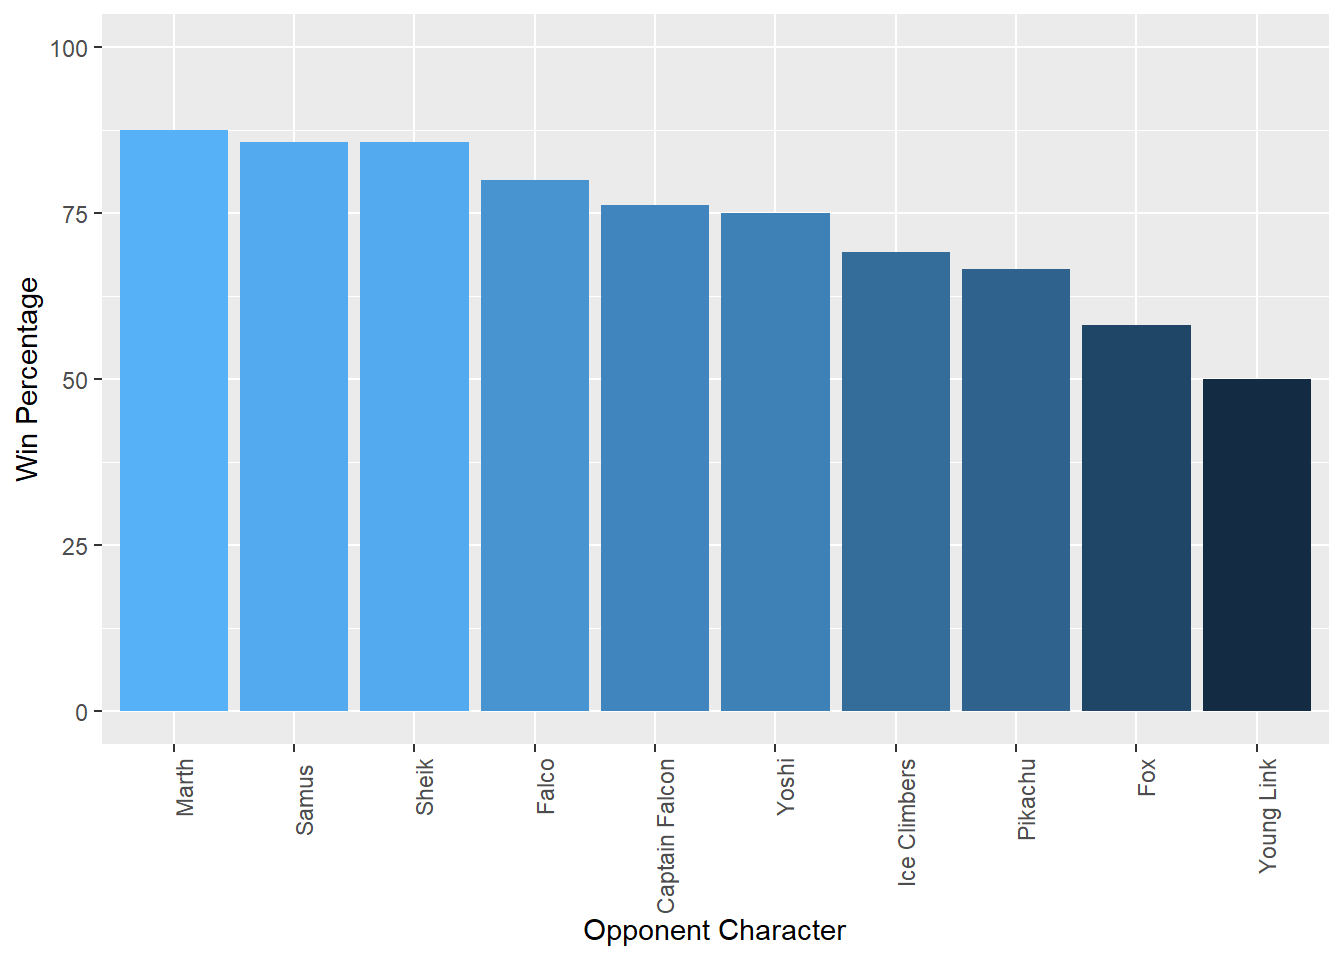
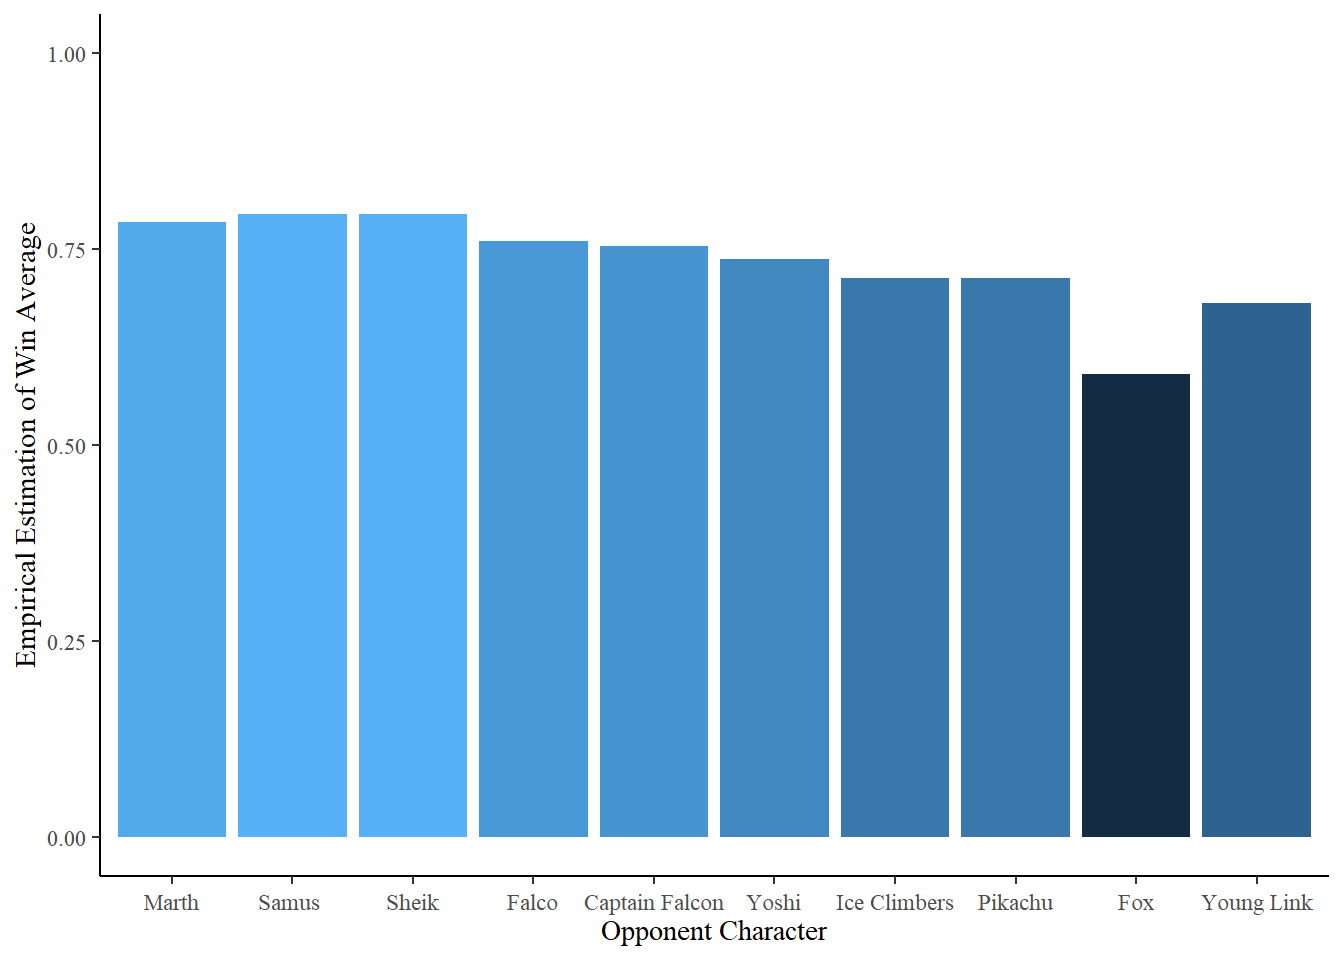
First draft

diff --git a/public/hbox-bayes/index.html b/public/hbox-bayes/index.html
@@ -179,7 +179,7 @@
   
   
   &nbsp;|&nbsp;
-  <i class="fa fa-clock-o"></i> 14 minutes (2937 words)
+  <i class="fa fa-clock-o"></i> 15 minutes (2993 words)
   
   
 </span>
@@ -238,7 +238,7 @@
 <p>Here is where the essential question of this blog post comes in.</p>
 <p>Does Hungrybox win more versus Fox than he does versus Young Link? On face value, the answers seems obvious. Hungrybox wins 58.23% of his matches versus Fox and 50.00% of his matches versus Young Link, so clearly he is better at the Fox matchup, right?</p>
 <p>In order to make that conclusion, one would have to disregard the sample size or the amount of evidence behind each matchup. Up until 2017/11/07, Hungrybox had won 2/4 matches versus Young Link, whereas he had won 145/249 matches versus Fox. Knowing this, can we confidently say that Hungrybox’s win percentage versus Young Link is truly lower than his win percentage versus Fox?</p>
-<p>Thankfully, there is a statistical technique called <strong>empirical Bayes estimation</strong> that will allow us to predict the proportion of wins in each of Hungrybox’s character matchups. The specific goal of this analysis will be to gain a better estimate of Hungrybox’s win percentage versus Young Link and Fox, given the data available. This analysis will allow us to make an informed approximation of which is the best character to use against Hungrybox in high level play.</p>
+<p>Thankfully, there is a statistical technique called <strong>empirical Bayes estimation</strong> that will allow us to predict the proportion of wins in each of Hungrybox’s character matchups. The specific goal of this analysis will be to gain a better estimate of Hungrybox’s win percentage versus Young Link, given the data in Tafo’s tweet. This analysis will allow us to make an informed approximation of which is the best character to use against Hungrybox in high level play.</p>
 <hr />
 <blockquote>
 <p>Before we dive in, I would like to credit <a href="http://varianceexplained.org/">David Robinson</a> for his excellent series of posts on Bayesian data analysis. Learning about empirical Bayes estimation through his posts inspired me to use these methods on data that were interesting to me.</p>
@@ -333,7 +333,7 @@ Hbox.est</code></pre>
 <p>Again, our distribution and number of observations leaves something to be desired. Nonetheless, we will use this distribution to inform our approximations of Hungrybox’s individual character matchups.</p>
 <p>To do so, we add alpha and the number of wins in each matchup then divide that by the sum of the total number of games, alpha, and beta.</p>
 <p><span class="math display">\[
-\frac{Number of Wins + \alpha}{Total Number of Games + \alpha + \beta}
+\frac{Number of Wins + \alpha_0}{Total Number of Games + \alpha_0 + \beta_0}
 \]</span></p>
 <pre class="r"><code>#How does empirical Bayes estimation change the matchup averages?
 Hbox.eb &lt;- Hbox %&gt;%
@@ -387,46 +387,51 @@ Hbox.eb %&gt;%
 <div id="bonus-maximum-likelihood-estimation" class="section level3">
 <h3>Bonus: Maximum Likelihood Estimation</h3>
 <p>In addition to estimating the alpha and beta parameters through the method of moments, we can also use maximum likelihood estimation. Here, I use the <code>fitdistr()</code> function from the <code>MASS</code> package to do that with one line of code.</p>
-<pre class="r"><code>#Alternatively, we can use fitdistr to conduct a Maximum-Likelihood Estimation of alpha and beta
-Hbox.est2 &lt;- fitdistr(Hbox$WinAverage,dbeta,list(shape1=1,shape2=1), lower = c(0,0))
+<pre class="r"><code>Hbox.est2 &lt;- fitdistr(Hbox$WinAverage,dbeta,list(shape1=1,shape2=1), lower = c(0,0))
 
 Hbox.est2</code></pre>
 <pre><code>##     shape1      shape2  
 ##   10.403528    3.780885 
 ##  ( 4.665568) ( 1.625258)</code></pre>
 <p>Our estimates of alpha and beta have not changed substantially, but let’s see how this method may have differed in terms of our conclusions.</p>
-<pre class="r"><code>#How did our empirical Bayes change the matchup averages?
+<pre class="r"><code>#Empirical Bayes
 Hbox.eb2 &lt;- Hbox %&gt;%
   mutate(eb_estimate2 = (Wins + Hbox.est2$estimate[1]) / (TotalGames + Hbox.est2$estimate[1] + Hbox.est2$estimate[2]))
 
-#Again, what if we had no evidence at all? What would we predict Hbox&#39;s win average across all matchups to be?
-sprintf(&quot;%.3f&quot;, Hbox.est2$estimate[1] / (Hbox.est2$estimate[1] + Hbox.est2$estimate[2]))</code></pre>
+Hbox.eb2 %&gt;%
+  dplyr::select(-WinPercent) %&gt;%
+  arrange(desc(abs(eb_estimate2 - WinAverage)))</code></pre>
+<pre><code>##    OpponentCharacter Wins Losses TotalGames WinAverage eb_estimate2
+## 1         Young Link    2      2          4  0.5000000    0.6820967
+## 2              Marth    7      1          8  0.8750000    0.7844935
+## 3             Samus    12      2         14  0.8571429    0.7948907
+## 4              Sheik   12      2         14  0.8571429    0.7948907
+## 5            Pikachu    4      2          6  0.6666667    0.7135966
+## 6              Falco    8      2         10  0.8000000    0.7609665
+## 7       Ice Climbers    9      4         13  0.6923077    0.7137740
+## 8              Yoshi    3      1          4  0.7500000    0.7370889
+## 9                Fox  145    104        249  0.5823293    0.5904739
+## 10    Captain Falcon   32     10         42  0.7619048    0.7547205</code></pre>
+<p>Again, what if we had no evidence at all for a matchup? What would we predict Hbox’s win average to be in this situation?</p>
+<pre class="r"><code>sprintf(&quot;%.3f&quot;, Hbox.est2$estimate[1] / (Hbox.est2$estimate[1] + Hbox.est2$estimate[2]))</code></pre>
 <pre><code>## [1] &quot;0.733&quot;</code></pre>
-<pre class="r"><code>#Plot
-ggplot(data = Hbox.eb2, aes(x = Hbox.eb2$OpponentCharacter, y = Hbox.eb2$eb_estimate, fill = Hbox.eb2$eb_estimate)) + 
-  geom_bar(stat = &quot;identity&quot;, show.legend = FALSE) + 
-  theme(axis.text.x = element_text(angle = 90, hjust = 1)) + 
-  ylab(&quot;Empirical Estimation of Win Average&quot;) + 
-  xlab(&quot;Opponent Character&quot;) + 
-  scale_x_discrete(limits = c(&quot;Marth&quot;, &quot;Samus &quot;, &quot;Sheik&quot;, &quot;Falco&quot;, &quot;Captain Falcon&quot;, &quot;Yoshi&quot;, &quot;Ice Climbers&quot;, &quot;Pikachu&quot;, &quot;Fox&quot;, &quot;Young Link&quot;)) + 
-  coord_cartesian(ylim = c(0.0, 1.0))</code></pre>
-<p><img src="/post/2018-08-31-empirical-bayes-estimation-of-hungrybox-s-2017-character-matchups_files/figure-html/unnamed-chunk-2-1.png" width="672" /></p>
-<p>Not very much! It’s nice that this method also reflects the same conclusions as our original analysis.</p>
+<p>And our estimates of win averages?</p>
+<p><img src="/post/2018-08-31-empirical-bayes-estimation-of-hungrybox-s-2017-character-matchups_files/figure-html/unnamed-chunk-4-1.png" width="672" /></p>
+<p>Our conclusions do not change very much! The estimates of Hungrybox’s win averages in matchups with or without data are very alike to our previous findings. It’s nice that this method also reflects the same conclusions as our original analysis.</p>
 <hr />
 </div>
 <div id="conclusions" class="section level3">
 <h3>Conclusions</h3>
 <p>Well, what did we learn? First we learned that sample size and the number of observations is important. We should not make bold conclusions on percentages or proportions that have a small number of underlying observations. That principle should also be applied to this analysis. Due to the nature of high level competitive Melee, only a few matchups made up the win average distribution. This affected the resolution of our estimates of the alpha, beta, and resulting estimates for each of Hungrybox’s matchups.</p>
-<p>With these limitations in mind, this analysis suggests that Young Link is not an optimal character choice versus Hungrybox. In unsurprising fashion, Fox remains Hungrybox’s most difficult matchup, a sentiment that has been widely echoed for a long time in the Melee community. It is an almost natural assumption that the best character in the game would be the hardest to play against, even if you’re #1. Despite the somewhat underwhelming conclusion, the important lesson is that extreme or simplistic solution of choosing Young Link should not be applied to complex</p>
-<p>Does that mean that people should only play Fox to beat Hungrybox’s Jigglypuff?</p>
-<p>Recent tournament results would suggest that shouldn’t be the case.</p>
+<p>With these limitations in mind, this analysis suggests that Young Link is not an optimal character choice versus Hungrybox. In unsurprising fashion, Fox remains Hungrybox’s most difficult matchup, a sentiment believed by Hungrybox himself and fans. It is an almost natural assumption that the best character in the game would be the hardest to play against, even if you’re #1. Despite the somewhat underwhelming conclusion, the important lesson is that extreme or simplistic solution of choosing Young Link (or any other character) should not be applied to complex problem of defeating the best player in the world.</p>
+<p>Does this mean that people should only play Fox to beat Hungrybox’s Jigglypuff?</p>
+<p>Recent tournament results would suggest that this is not necessary.</p>
 <div class="figure">
 <img src="/img/SmashggShine2018.png" alt="Shine 2018 Top 8 Bracket | source: smash.gg" />
 <p class="caption">Shine 2018 Top 8 Bracket | source: smash.gg</p>
 </div>
-<p>Zain’s meteoric rise through the high</p>
 <p>Zain’s astonishing rise through the Melee rankings led him to beat Hungrybox in two best-of-5 tournament matches at Shine 2018. Zain won a major tournament by beating Hungrybox in a decisive <a href="https://youtu.be/BGifpkfcvvg">3-1 Grand Finals set</a>. That feat is compounded by the fact that Zain beat Hungrybox using Marth, a character that historically performs poorly versus Hungrybox’s Jigglypuff. In fact, the last Marth player to beat Hungrybox was <a href="https://youtu.be/tDxvY_MVctI">PewPewU in 2015</a>. So, character matchups and their estimates are not everything and that’s exactly why competetitive Melee can be so exciting as a spectator.</p>
-<p>I am very glad to make my first post on my blog, especially since I have been sitting on this analysis since Tafo posted the stats in the tweet. Taking an analytical stance on one of the many nuances of Melee will always be a pleasure.</p>
+<p>I am very glad to make my first post on my blog, especially since I have been sitting on this analysis since Tafo posted the data on Twitter. Taking an analytical stance on one of the many nuances of Melee will always be a pleasure. Thanks again to David Robinson for inspiring this post.</p>
 <p>If you have any questions or concerns about this blog post, feel free to message me on Twitter or leave a Disqus comment. If you’re interested in watching competitive Melee, watch the documentary “The Smash Brothers” (linked above), search through competitive Melee VODs on YouTube, or watch livestreams of tournaments on Twitch. You can use <a href="http://whensmelee.com/">“When’s Melee?”</a> to find out when those tournaments are scheduled.</p>
 </div>
 </div>

diff --git a/content/post/2018-08-31-empirical-bayes-estimation-of-hungrybox-s-2017-character-matchups.html b/content/post/2018-08-31-empirical-bayes-estimation-of-hungrybox-s-2017-character-matchups.html
@@ -51,7 +51,7 @@ subtitle: "Empirical Bayes Estimation of Hungrybox's 2017 Character Matchup Win 
 <p>Here is where the essential question of this blog post comes in.</p>
 <p>Does Hungrybox win more versus Fox than he does versus Young Link? On face value, the answers seems obvious. Hungrybox wins 58.23% of his matches versus Fox and 50.00% of his matches versus Young Link, so clearly he is better at the Fox matchup, right?</p>
 <p>In order to make that conclusion, one would have to disregard the sample size or the amount of evidence behind each matchup. Up until 2017/11/07, Hungrybox had won 2/4 matches versus Young Link, whereas he had won 145/249 matches versus Fox. Knowing this, can we confidently say that Hungrybox’s win percentage versus Young Link is truly lower than his win percentage versus Fox?</p>
-<p>Thankfully, there is a statistical technique called <strong>empirical Bayes estimation</strong> that will allow us to predict the proportion of wins in each of Hungrybox’s character matchups. The specific goal of this analysis will be to gain a better estimate of Hungrybox’s win percentage versus Young Link and Fox, given the data available. This analysis will allow us to make an informed approximation of which is the best character to use against Hungrybox in high level play.</p>
+<p>Thankfully, there is a statistical technique called <strong>empirical Bayes estimation</strong> that will allow us to predict the proportion of wins in each of Hungrybox’s character matchups. The specific goal of this analysis will be to gain a better estimate of Hungrybox’s win percentage versus Young Link, given the data in Tafo’s tweet. This analysis will allow us to make an informed approximation of which is the best character to use against Hungrybox in high level play.</p>
 <hr />
 <blockquote>
 <p>Before we dive in, I would like to credit <a href="http://varianceexplained.org/">David Robinson</a> for his excellent series of posts on Bayesian data analysis. Learning about empirical Bayes estimation through his posts inspired me to use these methods on data that were interesting to me.</p>
@@ -146,7 +146,7 @@ Hbox.est</code></pre>
 <p>Again, our distribution and number of observations leaves something to be desired. Nonetheless, we will use this distribution to inform our approximations of Hungrybox’s individual character matchups.</p>
 <p>To do so, we add alpha and the number of wins in each matchup then divide that by the sum of the total number of games, alpha, and beta.</p>
 <p><span class="math display">\[
-\frac{Number of Wins + \alpha}{Total Number of Games + \alpha + \beta}
+\frac{Number of Wins + \alpha_0}{Total Number of Games + \alpha_0 + \beta_0}
 \]</span></p>
 <pre class="r"><code>#How does empirical Bayes estimation change the matchup averages?
 Hbox.eb &lt;- Hbox %&gt;%
@@ -200,46 +200,51 @@ Hbox.eb %&gt;%
 <div id="bonus-maximum-likelihood-estimation" class="section level3">
 <h3>Bonus: Maximum Likelihood Estimation</h3>
 <p>In addition to estimating the alpha and beta parameters through the method of moments, we can also use maximum likelihood estimation. Here, I use the <code>fitdistr()</code> function from the <code>MASS</code> package to do that with one line of code.</p>
-<pre class="r"><code>#Alternatively, we can use fitdistr to conduct a Maximum-Likelihood Estimation of alpha and beta
-Hbox.est2 &lt;- fitdistr(Hbox$WinAverage,dbeta,list(shape1=1,shape2=1), lower = c(0,0))
+<pre class="r"><code>Hbox.est2 &lt;- fitdistr(Hbox$WinAverage,dbeta,list(shape1=1,shape2=1), lower = c(0,0))
 
 Hbox.est2</code></pre>
 <pre><code>##     shape1      shape2  
 ##   10.403528    3.780885 
 ##  ( 4.665568) ( 1.625258)</code></pre>
 <p>Our estimates of alpha and beta have not changed substantially, but let’s see how this method may have differed in terms of our conclusions.</p>
-<pre class="r"><code>#How did our empirical Bayes change the matchup averages?
+<pre class="r"><code>#Empirical Bayes
 Hbox.eb2 &lt;- Hbox %&gt;%
   mutate(eb_estimate2 = (Wins + Hbox.est2$estimate[1]) / (TotalGames + Hbox.est2$estimate[1] + Hbox.est2$estimate[2]))
 
-#Again, what if we had no evidence at all? What would we predict Hbox&#39;s win average across all matchups to be?
-sprintf(&quot;%.3f&quot;, Hbox.est2$estimate[1] / (Hbox.est2$estimate[1] + Hbox.est2$estimate[2]))</code></pre>
+Hbox.eb2 %&gt;%
+  dplyr::select(-WinPercent) %&gt;%
+  arrange(desc(abs(eb_estimate2 - WinAverage)))</code></pre>
+<pre><code>##    OpponentCharacter Wins Losses TotalGames WinAverage eb_estimate2
+## 1         Young Link    2      2          4  0.5000000    0.6820967
+## 2              Marth    7      1          8  0.8750000    0.7844935
+## 3             Samus    12      2         14  0.8571429    0.7948907
+## 4              Sheik   12      2         14  0.8571429    0.7948907
+## 5            Pikachu    4      2          6  0.6666667    0.7135966
+## 6              Falco    8      2         10  0.8000000    0.7609665
+## 7       Ice Climbers    9      4         13  0.6923077    0.7137740
+## 8              Yoshi    3      1          4  0.7500000    0.7370889
+## 9                Fox  145    104        249  0.5823293    0.5904739
+## 10    Captain Falcon   32     10         42  0.7619048    0.7547205</code></pre>
+<p>Again, what if we had no evidence at all for a matchup? What would we predict Hbox’s win average to be in this situation?</p>
+<pre class="r"><code>sprintf(&quot;%.3f&quot;, Hbox.est2$estimate[1] / (Hbox.est2$estimate[1] + Hbox.est2$estimate[2]))</code></pre>
 <pre><code>## [1] &quot;0.733&quot;</code></pre>
-<pre class="r"><code>#Plot
-ggplot(data = Hbox.eb2, aes(x = Hbox.eb2$OpponentCharacter, y = Hbox.eb2$eb_estimate, fill = Hbox.eb2$eb_estimate)) + 
-  geom_bar(stat = &quot;identity&quot;, show.legend = FALSE) + 
-  theme(axis.text.x = element_text(angle = 90, hjust = 1)) + 
-  ylab(&quot;Empirical Estimation of Win Average&quot;) + 
-  xlab(&quot;Opponent Character&quot;) + 
-  scale_x_discrete(limits = c(&quot;Marth&quot;, &quot;Samus &quot;, &quot;Sheik&quot;, &quot;Falco&quot;, &quot;Captain Falcon&quot;, &quot;Yoshi&quot;, &quot;Ice Climbers&quot;, &quot;Pikachu&quot;, &quot;Fox&quot;, &quot;Young Link&quot;)) + 
-  coord_cartesian(ylim = c(0.0, 1.0))</code></pre>
-<p><img src="/post/2018-08-31-empirical-bayes-estimation-of-hungrybox-s-2017-character-matchups_files/figure-html/unnamed-chunk-2-1.png" width="672" /></p>
-<p>Not very much! It’s nice that this method also reflects the same conclusions as our original analysis.</p>
+<p>And our estimates of win averages?</p>
+<p><img src="/post/2018-08-31-empirical-bayes-estimation-of-hungrybox-s-2017-character-matchups_files/figure-html/unnamed-chunk-4-1.png" width="672" /></p>
+<p>Our conclusions do not change very much! The estimates of Hungrybox’s win averages in matchups with or without data are very alike to our previous findings. It’s nice that this method also reflects the same conclusions as our original analysis.</p>
 <hr />
 </div>
 <div id="conclusions" class="section level3">
 <h3>Conclusions</h3>
 <p>Well, what did we learn? First we learned that sample size and the number of observations is important. We should not make bold conclusions on percentages or proportions that have a small number of underlying observations. That principle should also be applied to this analysis. Due to the nature of high level competitive Melee, only a few matchups made up the win average distribution. This affected the resolution of our estimates of the alpha, beta, and resulting estimates for each of Hungrybox’s matchups.</p>
-<p>With these limitations in mind, this analysis suggests that Young Link is not an optimal character choice versus Hungrybox. In unsurprising fashion, Fox remains Hungrybox’s most difficult matchup, a sentiment that has been widely echoed for a long time in the Melee community. It is an almost natural assumption that the best character in the game would be the hardest to play against, even if you’re #1. Despite the somewhat underwhelming conclusion, the important lesson is that extreme or simplistic solution of choosing Young Link should not be applied to complex</p>
-<p>Does that mean that people should only play Fox to beat Hungrybox’s Jigglypuff?</p>
-<p>Recent tournament results would suggest that shouldn’t be the case.</p>
+<p>With these limitations in mind, this analysis suggests that Young Link is not an optimal character choice versus Hungrybox. In unsurprising fashion, Fox remains Hungrybox’s most difficult matchup, a sentiment believed by Hungrybox himself and fans. It is an almost natural assumption that the best character in the game would be the hardest to play against, even if you’re #1. Despite the somewhat underwhelming conclusion, the important lesson is that extreme or simplistic solution of choosing Young Link (or any other character) should not be applied to complex problem of defeating the best player in the world.</p>
+<p>Does this mean that people should only play Fox to beat Hungrybox’s Jigglypuff?</p>
+<p>Recent tournament results would suggest that this is not necessary.</p>
 <div class="figure">
 <img src="/img/SmashggShine2018.png" alt="Shine 2018 Top 8 Bracket | source: smash.gg" />
 <p class="caption">Shine 2018 Top 8 Bracket | source: smash.gg</p>
 </div>
-<p>Zain’s meteoric rise through the high</p>
 <p>Zain’s astonishing rise through the Melee rankings led him to beat Hungrybox in two best-of-5 tournament matches at Shine 2018. Zain won a major tournament by beating Hungrybox in a decisive <a href="https://youtu.be/BGifpkfcvvg">3-1 Grand Finals set</a>. That feat is compounded by the fact that Zain beat Hungrybox using Marth, a character that historically performs poorly versus Hungrybox’s Jigglypuff. In fact, the last Marth player to beat Hungrybox was <a href="https://youtu.be/tDxvY_MVctI">PewPewU in 2015</a>. So, character matchups and their estimates are not everything and that’s exactly why competetitive Melee can be so exciting as a spectator.</p>
-<p>I am very glad to make my first post on my blog, especially since I have been sitting on this analysis since Tafo posted the stats in the tweet. Taking an analytical stance on one of the many nuances of Melee will always be a pleasure.</p>
+<p>I am very glad to make my first post on my blog, especially since I have been sitting on this analysis since Tafo posted the data on Twitter. Taking an analytical stance on one of the many nuances of Melee will always be a pleasure. Thanks again to David Robinson for inspiring this post.</p>
 <p>If you have any questions or concerns about this blog post, feel free to message me on Twitter or leave a Disqus comment. If you’re interested in watching competitive Melee, watch the documentary “The Smash Brothers” (linked above), search through competitive Melee VODs on YouTube, or watch livestreams of tournaments on Twitch. You can use <a href="http://whensmelee.com/">“When’s Melee?”</a> to find out when those tournaments are scheduled.</p>
 </div>
 </div>

diff --git a/public/index.html b/public/index.html
@@ -241,7 +241,7 @@ Why is your blog called &ldquo;Needle in the Hay&rdquo;? I chose &ldquo;Needle i
   
   
   &nbsp;|&nbsp;
-  <i class="fa fa-clock-o"></i> 14 minutes (2937 words)
+  <i class="fa fa-clock-o"></i> 15 minutes (2993 words)
   
   
 </span>

diff --git a/public/categories/bayes/index.html b/public/categories/bayes/index.html
@@ -186,7 +186,7 @@
   
   
   &nbsp;|&nbsp;
-  <i class="fa fa-clock-o"></i> 14 minutes (2937 words)
+  <i class="fa fa-clock-o"></i> 15 minutes (2993 words)
   
   
 </span>

diff --git a/public/categories/esports/index.html b/public/categories/esports/index.html
@@ -186,7 +186,7 @@
   
   
   &nbsp;|&nbsp;
-  <i class="fa fa-clock-o"></i> 14 minutes (2937 words)
+  <i class="fa fa-clock-o"></i> 15 minutes (2993 words)
   
   
 </span>

diff --git a/public/categories/r/index.html b/public/categories/r/index.html
@@ -186,7 +186,7 @@
   
   
   &nbsp;|&nbsp;
-  <i class="fa fa-clock-o"></i> 14 minutes (2937 words)
+  <i class="fa fa-clock-o"></i> 15 minutes (2993 words)
   
   
 </span>

diff --git a/public/categories/rstats/index.html b/public/categories/rstats/index.html
@@ -186,7 +186,7 @@
   
   
   &nbsp;|&nbsp;
-  <i class="fa fa-clock-o"></i> 14 minutes (2937 words)
+  <i class="fa fa-clock-o"></i> 15 minutes (2993 words)
   
   
 </span>

diff --git a/public/post/index.html b/public/post/index.html
@@ -186,7 +186,7 @@
   
   
   &nbsp;|&nbsp;
-  <i class="fa fa-clock-o"></i> 14 minutes (2937 words)
+  <i class="fa fa-clock-o"></i> 15 minutes (2993 words)
   
   
 </span>

diff --git a/public/tags/bayes/index.html b/public/tags/bayes/index.html
@@ -186,7 +186,7 @@
   
   
   &nbsp;|&nbsp;
-  <i class="fa fa-clock-o"></i> 14 minutes (2937 words)
+  <i class="fa fa-clock-o"></i> 15 minutes (2993 words)
   
   
 </span>

diff --git a/public/tags/esports/index.html b/public/tags/esports/index.html
@@ -186,7 +186,7 @@
   
   
   &nbsp;|&nbsp;
-  <i class="fa fa-clock-o"></i> 14 minutes (2937 words)
+  <i class="fa fa-clock-o"></i> 15 minutes (2993 words)
   
   
 </span>

diff --git a/public/tags/r/index.html b/public/tags/r/index.html
@@ -186,7 +186,7 @@
   
   
   &nbsp;|&nbsp;
-  <i class="fa fa-clock-o"></i> 14 minutes (2937 words)
+  <i class="fa fa-clock-o"></i> 15 minutes (2993 words)
   
   
 </span>

diff --git a/public/tags/rstats/index.html b/public/tags/rstats/index.html
@@ -186,7 +186,7 @@
   
   
   &nbsp;|&nbsp;
-  <i class="fa fa-clock-o"></i> 14 minutes (2937 words)
+  <i class="fa fa-clock-o"></i> 15 minutes (2993 words)
   
   
 </span>
